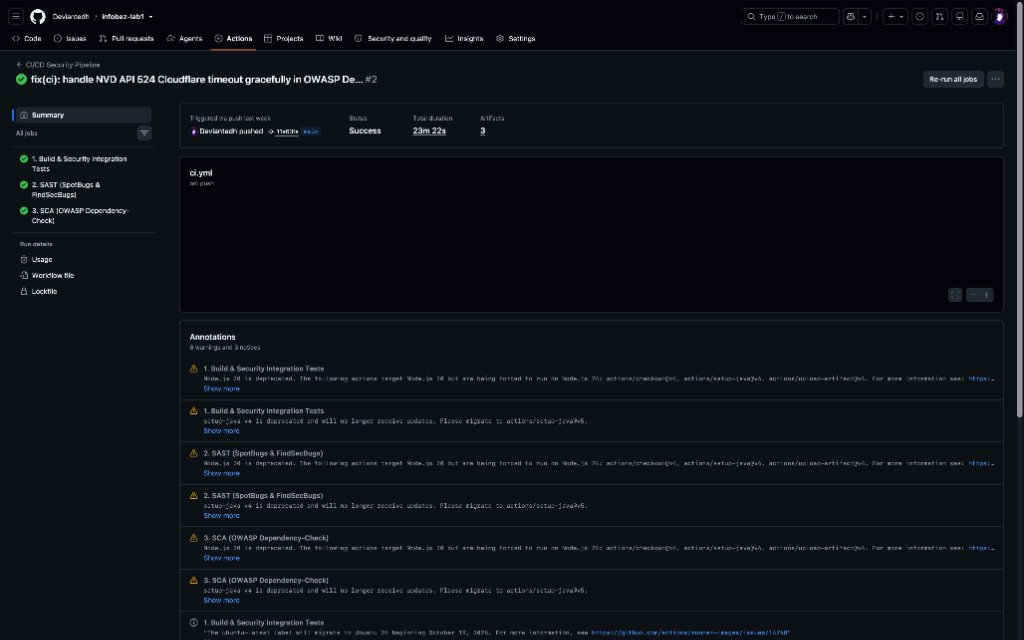
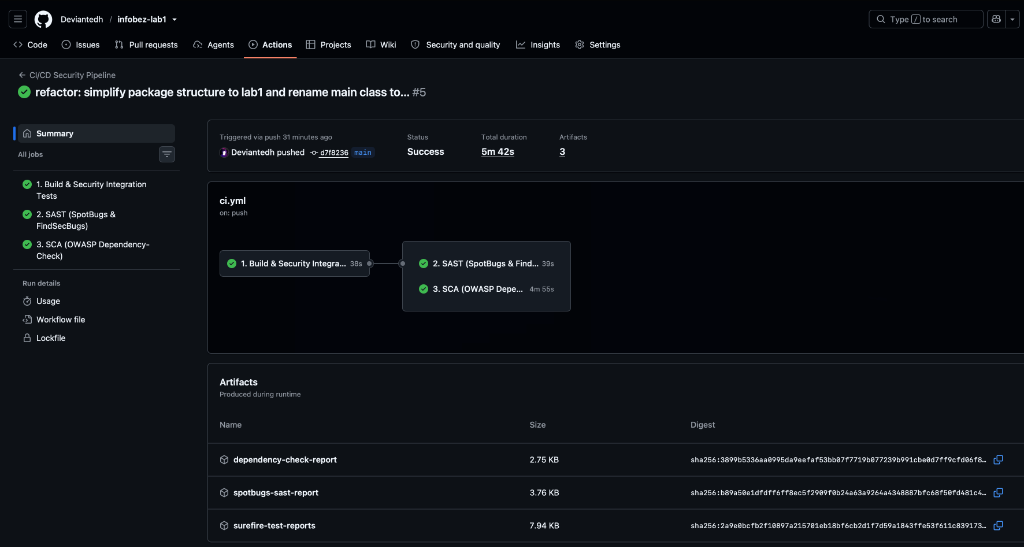
docs: update pipeline and test execution screenshots and scripts

diff --git a/src/test/java/lab1/SecurityIntegrationTest.java b/src/test/java/lab1/SecurityIntegrationTest.java
@@ -26,7 +26,7 @@ class SecurityIntegrationTest {
     private ObjectMapper objectMapper;
 
     @Test
-    @DisplayName("1. Попытка несанкционированного доступа к /api/data без токена должна вернуть 401 Unauthorized")
+    @DisplayName("Попытка несанкционированного доступа к /api/data без токена должна вернуть 401 Unauthorized")
     void testAccessDataWithoutTokenReturnsUnauthorized() throws Exception {
         mockMvc.perform(get("/api/data"))
                 .andExpect(status().isUnauthorized())
@@ -35,7 +35,7 @@ class SecurityIntegrationTest {
     }
 
     @Test
-    @DisplayName("2. Попытка входа с неверным паролем должна вернуть 401 Unauthorized")
+    @DisplayName("Попытка входа с неверным паролем должна вернуть 401 Unauthorized")
     void testLoginWithWrongPasswordReturnsUnauthorized() throws Exception {
         AuthDto.LoginRequest request = AuthDto.LoginRequest.builder()
                 .username("admin")
@@ -50,7 +50,7 @@ class SecurityIntegrationTest {
     }
 
     @Test
-    @DisplayName("3. Аутентификация с корректными данными должна выдать валидный JWT токен")
+    @DisplayName("Аутентификация с корректными данными должна выдать валидный JWT токен")
     void testLoginWithValidCredentialsReturnsJwtToken() throws Exception {
         AuthDto.LoginRequest request = AuthDto.LoginRequest.builder()
                 .username("admin")
@@ -68,7 +68,7 @@ class SecurityIntegrationTest {
     }
 
     @Test
-    @DisplayName("4. Доступ к защищенному эндпоинту /api/data с валидным JWT токеном должен вернуть 200 OK")
+    @DisplayName("Доступ к защищенному эндпоинту /api/data с валидным JWT токеном должен вернуть 200 OK")
     void testAccessDataWithValidTokenReturnsOk() throws Exception {
         String token = obtainJwtToken("admin", "admin123");
 
@@ -81,7 +81,7 @@ class SecurityIntegrationTest {
     }
 
     @Test
-    @DisplayName("5. Доступ с поддельным или поврежденным JWT токеном должен вернуть 401 Unauthorized")
+    @DisplayName("Доступ с поддельным или поврежденным JWT токеном должен вернуть 401 Unauthorized")
     void testAccessWithForgedTokenReturnsUnauthorized() throws Exception {
         String forgedToken = "eyJhbGciOiJIUzI1NiIsInR5cCI6IkpXVCJ9.e30.forgedSignature";
 
@@ -91,7 +91,7 @@ class SecurityIntegrationTest {
     }
 
     @Test
-    @DisplayName("6. Защита от SQL-инъекций: инъекция в логин не должна обходить аутентификацию")
+    @DisplayName("Защита от SQL-инъекций: инъекция в логин не должна обходить аутентификацию")
     void testSqlInjectionInLoginFailsSafely() throws Exception {
         AuthDto.LoginRequest sqliRequest = AuthDto.LoginRequest.builder()
                 .username("admin' OR '1'='1")
@@ -107,7 +107,7 @@ class SecurityIntegrationTest {
     }
 
     @Test
-    @DisplayName("7. Защита от XSS: HTML теги должны санитизироваться и экранироваться")
+    @DisplayName("Защита от XSS: HTML теги должны санитизироваться и экранироваться")
     void testXssPayloadSanitization() throws Exception {
         String token = obtainJwtToken("admin", "admin123");
 
@@ -127,7 +127,7 @@ class SecurityIntegrationTest {
     }
 
     @Test
-    @DisplayName("8. Проверка защитных HTTP-заголовков (Content-Security-Policy, X-Frame-Options, X-XSS-Protection)")
+    @DisplayName("Проверка защитных HTTP-заголовков (Content-Security-Policy, X-Frame-Options, X-XSS-Protection)")
     void testSecurityHeaders() throws Exception {
         mockMvc.perform(get("/auth/login"))
                 .andExpect(header().string("Content-Security-Policy", "default-src 'self'"))

diff --git a/src/main/java/lab1/SecurityConfig.java b/src/main/java/lab1/SecurityConfig.java
@@ -35,7 +35,7 @@ public class SecurityConfig {
 
     @Bean
     public PasswordEncoder passwordEncoder() {
-        // BCrypt с фактором трудоемкости 12 (высокая стойкость к брутфорсу)
+        // BCrypt с фактором 12
         return new BCryptPasswordEncoder(12);
     }
 
@@ -47,13 +47,13 @@ public class SecurityConfig {
     @Bean
     public SecurityFilterChain securityFilterChain(HttpSecurity http) throws Exception {
         http
-                // Отключаем CSRF, так как используется Stateless архитектура с JWT в HTTP-заголовке
+                // Отключаем CSRF
                 .csrf(AbstractHttpConfigurer::disable)
 
-                // Сессии на сервере не сохраняются (Stateless)
+                // Stateless
                 .sessionManagement(sm -> sm.sessionCreationPolicy(SessionCreationPolicy.STATELESS))
 
-                // Защитные HTTP-заголовки (XSS, Clickjacking, MIME-sniffing)
+                // Защитные заголовки типа XSS, Clickjacking, MIME-sniffing
                 .headers(headers -> headers
                         .xssProtection(xss -> xss.headerValue(XXssProtectionHeaderWriter.HeaderValue.ENABLED_MODE_BLOCK))
                         .contentSecurityPolicy(csp -> csp.policyDirectives("default-src 'self'"))
@@ -61,13 +61,11 @@ public class SecurityConfig {
                         .contentTypeOptions(HeadersConfigurer.ContentTypeOptionsConfig::disable)
                 )
 
-                // Обработка ошибок 401 и 403 с возвратом структурированного JSON
                 .exceptionHandling(ex -> ex
                         .authenticationEntryPoint(unauthorizedEntryPoint())
                         .accessDeniedHandler(accessDeniedHandler())
                 )
 
-                // Правила авторизации эндпоинтов
                 .authorizeHttpRequests(auth -> auth
                         .requestMatchers("/auth/**").permitAll()
                         .requestMatchers("/v3/api-docs/**", "/swagger-ui/**", "/swagger-ui.html").permitAll()
@@ -75,7 +73,6 @@ public class SecurityConfig {
                         .anyRequest().authenticated()
                 )
 
-                // Добавляем JWT middleware в цепочку фильтров
                 .addFilterBefore(jwtAuthenticationFilter, UsernamePasswordAuthenticationFilter.class);
 
         return http.build();

diff --git a/src/main/java/lab1/DataController.java b/src/main/java/lab1/DataController.java
@@ -22,14 +22,14 @@ public class DataController {
     private final DataService dataService;
 
     @GetMapping
-    @Operation(summary = "Получение списка защищенных данных (Метод 2)",
+    @Operation(summary = "Получение списка защищенных данных",
             description = "Доступен ТОЛЬКО аутентифицированным пользователям с валидным JWT токеном")
     public ResponseEntity<List<DataDto.Response>> getAllData() {
         return ResponseEntity.ok(dataService.getAllRecords());
     }
 
     @PostMapping
-    @Operation(summary = "Создание новой защищенной записи (Метод 3)",
+    @Operation(summary = "Создание новой защищенной записи ",
             description = "Принимает валидированные данные, производит экранирование от XSS и сохраняет в БД через JPA")
     public ResponseEntity<DataDto.Response> createData(@Valid @RequestBody DataDto.CreateRequest request,
                                                        Authentication authentication) {

diff --git a/src/main/java/lab1/OpenApiConfig.java b/src/main/java/lab1/OpenApiConfig.java
@@ -18,10 +18,10 @@ public class OpenApiConfig {
     public OpenAPI customOpenAPI() {
         return new OpenAPI()
                 .info(new Info()
-                        .title("ITMO InfoSec Lab 1 - Secure REST API")
+                        .title("ITMO Infobez Lab 1")
                         .version("1.0.0")
-                        .description("Разработка защищенного REST API с интеграцией в CI/CD (OWASP Top 10, JWT, SAST, SCA)")
-                        .contact(new Contact().name("Носов Григорий Игоревич").email("markina_t@itmo.ru")))
+                        .description("Разработка защищенного REST API с интеграцией в CI/CD ")
+                        .contact(new Contact().name("Носов Григорий Иванович").email("deviantedby@gmail.com")))
                 .addSecurityItem(new SecurityRequirement().addList(SECURITY_SCHEME_NAME))
                 .components(new Components()
                         .addSecuritySchemes(SECURITY_SCHEME_NAME,

diff --git a/src/main/java/lab1/GlobalExceptionHandler.java b/src/main/java/lab1/GlobalExceptionHandler.java
@@ -52,7 +52,7 @@ public class GlobalExceptionHandler {
 
     @ExceptionHandler(Exception.class)
     public ResponseEntity<Map<String, Object>> handleGenericException(Exception ex) {
-        // Логируем детальный стек только на сервере, пользователю отдаем безопасное сообщение (Information Disclosure Prevention)
+        // Логируем стек на сервере, юзеру отдаем безопасное сообщение
         log.error("Непредвиденная внутренняя ошибка сервера: ", ex);
         return buildErrorResponse(HttpStatus.INTERNAL_SERVER_ERROR, "Внутренняя ошибка сервера");
     }

diff --git a/src/main/java/lab1/AuthService.java b/src/main/java/lab1/AuthService.java
@@ -44,7 +44,7 @@ public class AuthService {
 
     @Transactional(readOnly = true)
     public AuthDto.AuthResponse login(AuthDto.LoginRequest request) {
-        // Одинаковое сообщение об ошибке для защиты от перечисления пользователей (User Enumeration)
+        // Одинаковое сообщение об ошибке для защиты от перебора пользователей
         User user = userRepository.findByUsername(request.getUsername())
                 .orElseThrow(() -> new BadCredentialsException("Неверный логин или пароль"));
 

diff --git a/src/main/java/lab1/DataService.java b/src/main/java/lab1/DataService.java
@@ -31,7 +31,7 @@ public class DataService {
 
     @Transactional
     public DataDto.Response createRecord(DataDto.CreateRequest request, String username) {
-        // Защита от Stored XSS: санитизация/экранирование HTML-тегов перед сохранением
+        // Защита от Stored XSS экранирование HTML тегов
         String sanitizedTitle = HtmlUtils.htmlEscape(request.getTitle().trim());
         String sanitizedContent = HtmlUtils.htmlEscape(request.getContent().trim());
 

diff --git a/src/main/java/lab1/DataInitializer.java b/src/main/java/lab1/DataInitializer.java
@@ -50,7 +50,7 @@ public class DataInitializer implements CommandLineRunner {
                     .build();
             dataRecordRepository.save(doc2);
 
-            log.info("Тестовые пользователи созданы: admin (admin123), user (user123)");
+            log.info("Тестовые пользователи созданы admin (admin123), user (user123)");
         }
     }
 }

diff --git a/README.md b/README.md
@@ -1,11 +1,11 @@
 # Secure REST API (ITMO InfoSec Lab 1)
 
 [![CI/CD Security Pipeline](https://github.com/Deviantedh/infobez-lab1/actions/workflows/ci.yml/badge.svg)](https://github.com/Deviantedh/infobez-lab1/actions)
-[![Latest Run](https://img.shields.io/badge/CI%2FCD-Success%20(Run%20%232)-brightgreen)](https://github.com/Deviantedh/infobez-lab1/actions/runs/42636644848)
+[![Latest Run](https://img.shields.io/badge/CI%2FCD-Success%20(Run%20%235)-brightgreen)](https://github.com/Deviantedh/infobez-lab1/actions/runs/43902485935)
 
 > **Студент:** Носов Георгий Иванович (P3432)  
 > **Дисциплина:** Информационная безопасность 
-> **Последний успешный запуск CI/CD:** [Run #42636644848](https://github.com/Deviantedh/infobez-lab1/actions/runs/42636644848)
+> **Последний успешный запуск CI/CD:** [Run #43902485935](https://github.com/Deviantedh/infobez-lab1/actions/runs/43902485935)
 
 ---
 
@@ -87,7 +87,7 @@ curl -s -X POST http://localhost:8080/api/data \
 
 ![CI/CD Pipeline](docs/pipeline.png)
 
-* Прямая ссылка на запуск: [GitHub Actions Run #42636644848](https://github.com/Deviantedh/infobez-lab1/actions/runs/42636644848)
+* Прямая ссылка на запуск: [GitHub Actions Run #43902485935](https://github.com/Deviantedh/infobez-lab1/actions/runs/43902485935)
 * Выгруженные артефакты: `surefire-test-reports`, `spotbugs-sast-report`, `dependency-check-report`.
 
 ---
